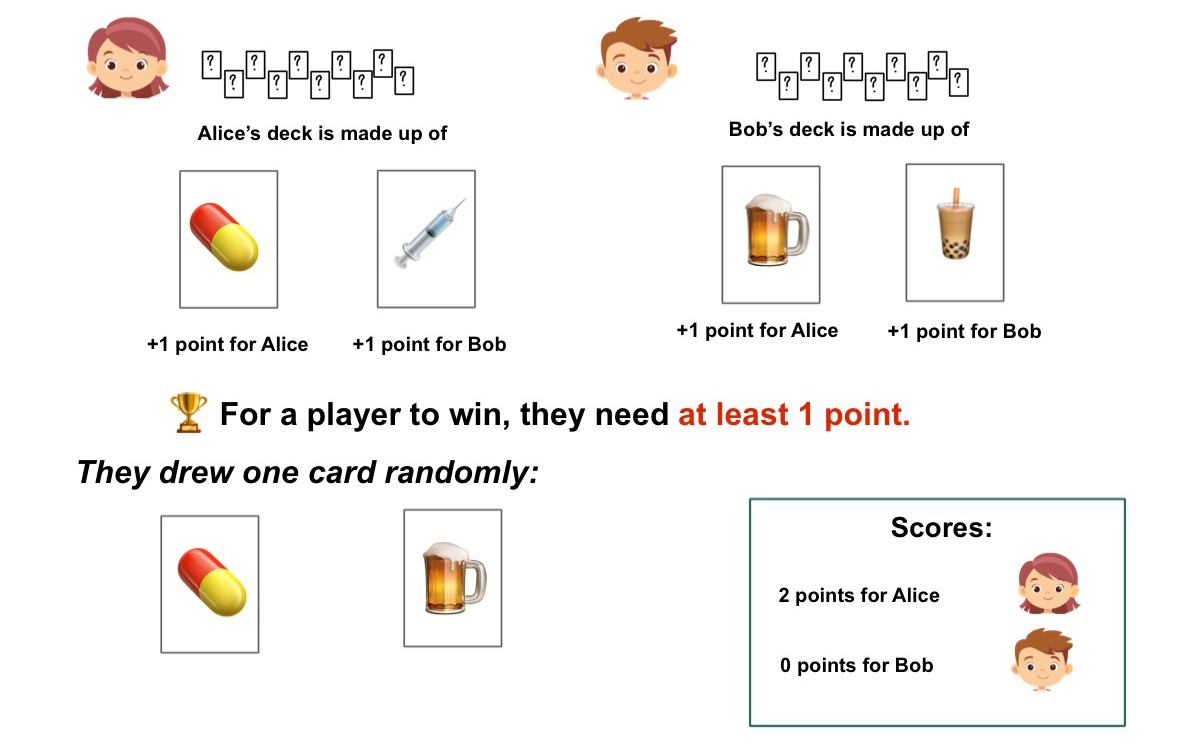
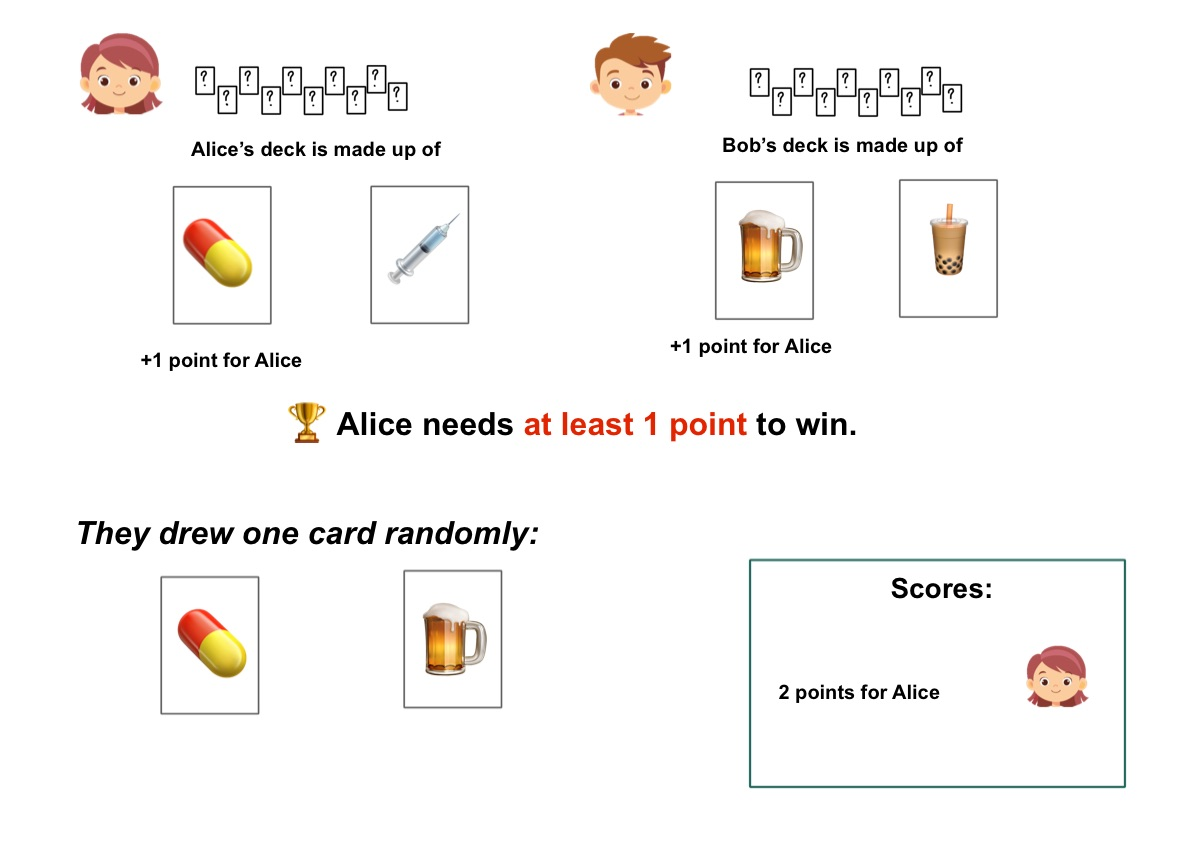
Deploying to gh-pages from @ aidayg24/causal_selection@fc078c5f442755c4d229e978290356ce2c7b787c 🚀

diff --git a/js/app.8fed67c2.js b/js/app.8fed67c2.js
@@ -1,0 +1,2 @@
+(function(){"use strict";var e={4535:function(e,t,a){var r=a(5471),o=a(4302),n=a.n(o),s=a(6093),i=function(){var e=this,t=e._self._c;return t("Experiment",{attrs:{title:"Experiment"}},[t("InstructionScreen",{attrs:{title:"Welcome"}},[t("p",[t("strong",[e._v("Welcome, and thank you for participating!")])]),t("p",[e._v(" In this experiment, you will answer questions about the outcome of an "),t("em",[e._v("Icon Card Game")]),e._v(". First, you will read instructions explaining how the game works. Then you will answer a few warm-up questions to ensure the game is clear. After that, you will proceed to the main part of the experiment. "),t("br"),t("br"),e._v(" Now let’s begin with the game instructions. ")])]),t("InstructionScreen",{attrs:{title:"Instructions"}},[t("p",[e._v(' Alice and Bob are playing the "Icon Card Game". Each player receives a '),t("strong",[e._v("deck of 10 cards")]),e._v(", composed of "),t("strong",[e._v("two types of icons")]),e._v(". Each player’s deck contains a "),t("strong",[e._v("different pair of icons")]),e._v(" (i.e., Alice’s two icon types are not the same as Bob’s)."),t("br"),e._v(" The "),t("strong",[e._v("number of each icon in each deck is determined randomly")]),e._v(", and "),t("strong",[e._v("both players know the exact composition of both decks")]),e._v(". The deck is assembled, shuffled, and placed face-down in front of them. ")]),t("img",{attrs:{src:"https://aidayg24.github.io/causal_selection/images/Ex1/Instruction/image1.jpg",alt:"cards and icons"}})]),t("InstructionScreen",{attrs:{title:"Instructions"}},[t("p",[e._v(" A point system is then assigned "),t("em",[t("strong",[e._v("randomly")])]),e._v(" to the icons."),t("br"),e._v(" In each deck, "),t("strong",[e._v("one icon gives Alice one point, and the other icon gives Bob one point.")]),t("br"),e._v(" For simplicity, only the icon that gives "),t("em",[e._v("Alice")]),e._v(" a point is shown. The other icon automatically counts for Bob. Then the "),t("strong",[e._v("winning condition for Alice is presented")]),e._v(". ")]),t("img",{attrs:{src:"conjunctive"===e.condition?"https://aidayg24.github.io/causal_selection/images/Ex1/Instruction/image2_2.jpg":"https://aidayg24.github.io/causal_selection/images/Ex1/Instruction/image2_atleast1.jpg",alt:"cards and icons"}})]),t("InstructionScreen",{attrs:{title:"Instructions"}},[t("p",[e._v(" Then both players draw one card at random from their own deck at the same time. You will then be told: ")]),t("ul",[t("li",[e._v("which cards the players drew, and")]),t("li",[e._v("each player's number of points")])]),t("p",[e._v(" Your task is to answer some questions about the game, based on the players’ deck choices and the winning rules of the game. ")]),t("p",[t("strong",[e._v("Please answer according to your own judgment.")]),e._v(" There are no right or wrong answers. ")]),t("p",[e._v(" Before we start the experiment, let’s do a quick warm-up to ensure the instructions are clear. ")]),t("img",{attrs:{src:"https://aidayg24.github.io/causal_selection/images/Ex1/Instruction/image3.jpg",alt:"cards and icons"}})]),t("Screen",[t("img",{attrs:{src:"https://aidayg24.github.io/causal_selection/images/Ex1/Instruction/image2.jpg",alt:"cards and icons"}}),t("ForcedChoiceScreen",{attrs:{question:"Is it possible that Bob draws a violin card from his deck?",options:["Yes","No","I am not sure"],feedbackTime:-1},scopedSlots:e._u([{key:"feedback",fn:function(){return["No"===e.$magpie.measurements.response?t("p",{staticClass:"feedback correct"},[e._v(" Correct!"),t("br")]):"I am not sure"===e.$magpie.measurements.response?t("p",{staticClass:"feedback unsure"},[e._v(" See Below!"),t("br")]):t("p",{staticClass:"feedback incorrect"},[e._v(" Incorrect!"),t("br")]),t("p",[e._v(" Each deck is made up of only two types of icons. Each player has a "),t("strong",[e._v("different pair of icons")]),e._v(" in their deck."),t("br"),t("span",[e._v(" Let's go to the next one.")])]),t("p"),t("button",{on:{click:function(t){return e.$magpie.nextScreen()}}},[e._v("Ok")])]},proxy:!0}])})],1),t("Screen",[t("img",{attrs:{src:"https://aidayg24.github.io/causal_selection/images/Ex1/Instruction/image2_2.jpg",alt:"cards and icons"}}),t("ForcedChoiceScreen",{attrs:{question:"Here, can Alice win if she draws a saxophone card?",options:["Yes","No","I am not sure"],feedbackTime:-1},scopedSlots:e._u([{key:"feedback",fn:function(){return["No"===e.$magpie.measurements.response?t("p",{staticClass:"feedback correct"},[e._v(" Correct!"),t("br")]):"I am not sure"===e.$magpie.measurements.response?t("p",{staticClass:"feedback unsure"},[e._v(" See Below!"),t("br")]):t("p",{staticClass:"feedback incorrect"},[e._v(" Incorrect!"),t("br")]),t("p",[e._v(" To win, Alice needs exactly two points."),t("br"),e._v(" A saxophone card gives Bob 1 point and does not give any points to Alice."),t("br"),e._v(" Even if Bob draws a guitar card, it will only give one point to Alice, and she still cannot win. "),t("br"),t("span",[e._v(" Let's go to the next one.")])]),t("p"),t("button",{on:{click:function(t){return e.$magpie.nextScreen()}}},[e._v("Ok")])]},proxy:!0}])})],1),t("Screen",[t("ForcedChoiceScreen",{attrs:{question:"Does Alice know how many guitar cards Bob has in his deck?",options:["Yes","No","I am not sure"],feedbackTime:-1},scopedSlots:e._u([{key:"feedback",fn:function(){return["Yes"===e.$magpie.measurements.response?t("p",{staticClass:"feedback correct"},[e._v(" Correct! ")]):"I am not sure"===e.$magpie.measurements.response?t("p",{staticClass:"feedback unsure"},[e._v(" See Below!"),t("br")]):t("p",{staticClass:"feedback incorrect"},[e._v(" Incorrect!"),t("br")]),t("p",[t("strong",[e._v("Both players know the exact number of each icon in every deck.")]),t("br"),t("span",[e._v(" Let's start the experiment!")])]),t("p"),t("button",{on:{click:function(t){return e.$magpie.nextScreen()}}},[e._v("Ok")])]},proxy:!0}])})],1),e._l(e.Ex1TrialsShuffled,function(a,r){return[t("Screen",{key:r},[t("Slide",[t("img",{staticClass:"card-img",attrs:{src:a.cardsImg,alt:"card image"}}),t("img",{staticClass:"play-img",attrs:{src:a.playImg,alt:"play image"}}),t("p",[t("strong",[t("em",[e._v(" Imagine you are Alice. Given the rules of the game and its outcome, which sentence would you prefer to say first? ")])])]),t("ForcedChoiceScreen",{attrs:{options:[a.op1,a.op2],randomize:!0,question:a.statement,responses:e.$magpie.measurements[a.tag]},on:{"update:responses":function(t){return e.$set(e.$magpie.measurements,a.tag,t)}}})],1)],1)]}),e._l(e.Ex2TrialsShuffled,function(a,r){return[t("Screen",{key:r},[t("Slide",[t("img",{staticClass:"play-img",attrs:{src:a.playImg,alt:"play image"}}),t("img",{staticClass:"alice-img",attrs:{src:a.aliceImg,alt:"Alice image"}}),t("p",[t("strong",[t("em",[e._v(" Given the rules of the game, the players’ knowledge about the proportion of each icon in their decks, and what Alice said: ")])])]),t("p",[t("strong",[e._v(e._s(a.q1))])]),t("MultipleChoiceInput",{attrs:{orientation:"horizontal",options:["less than 5","5","more than 5"],response:e.$magpie.measurements["ANorm_"+a.tag]},on:{"update:response":function(t){return e.$set(e.$magpie.measurements,"ANorm_"+a.tag,t)}}}),t("p",[t("strong",[e._v(e._s(a.q2))])]),t("MultipleChoiceInput",{attrs:{orientation:"horizontal",options:["less than 5","5","more than 5"],response:e.$magpie.measurements["BNorm_"+a.tag]},on:{"update:response":function(t){return e.$set(e.$magpie.measurements,"BNorm_"+a.tag,t)}}}),e.isCompareNeeded(a)?[t("p",[t("strong",[e._v(e._s(a.q3))])]),t("MultipleChoiceInput",{attrs:{orientation:"horizontal",options:["fewer","same number","more"],response:e.$magpie.measurements["compare_"+a.tag]},on:{"update:response":function(t){return e.$set(e.$magpie.measurements,"compare_"+a.tag,t)}}})]:e._e(),t("button",{attrs:{disabled:void 0===e.$magpie.measurements["ANorm_"+a.tag]||void 0===e.$magpie.measurements["BNorm_"+a.tag]||e.isCompareNeeded(a)&&!e.$magpie.measurements["compare_"+a.tag]},on:{click:function(t){return e.$magpie.saveAndNextScreen()}}},[e._v("Next")])],2)],1)]}),t("PostTestScreen"),t("SubmitResultsScreen")],2)},c=[],u=a(2543),l=a.n(u);const m="https://aidayg24.github.io/causal_selection/images/Ex1/Main/",p=[{cardsImg:`${m}matrix2Cards.jpg`,playImg:`${m}matrix2Play.jpg`,op1:"I drew the red pill card.",op2:"Bob drew the eat card.",statement:"I won because ",tag:"matrix2"},{cardsImg:`${m}superhero2Cards.jpg`,playImg:`${m}superhero2Play.jpg`,op1:"I drew the Spider-Man card.",op2:"Bob drew the Joker card.",statement:"I lost because ",tag:"superhero2"}];var d=p;const g="https://aidayg24.github.io/causal_selection/images/Ex1/Main/",h=[{cardsImg:`${g}instrument1Cards.jpg`,playImg:`${g}instrument1Play.jpg`,op1:"I drew the violin card.",op2:"Bob drew the guitar card.",statement:"I won because ",tag:"instrument1"},{cardsImg:`${g}superpower1Cards.jpg`,playImg:`${g}superpower1Play.jpg`,op1:"I drew the Spider-Man card.",op2:"Bob drew the Joker card.",statement:"I lost because ",tag:"superpower1"}];var f=h;const v="https://aidayg24.github.io/causal_selection/images/Ex2/main/",b=[{playImg:`${v}instrumentPlay.jpg`,aliceImg:`${v}instrumentAlice.jpg`,q1:"1. How many violin cards does Alice have?",q2:"2. How many guitar cards does Bob have?",q3:"3. Does Alice have more, fewer, or the same number of violin cards as Bob has guitar cards?",tag:"instrument"},{playImg:`${v}superpowerPlay.jpg`,aliceImg:`${v}superpowerAlice.jpg`,q1:"1. How many superpower cards does Alice have?",q2:"2. How many beer cards does Bob have?",q3:"3. Does Alice have more, fewer, or the same number of superpower cards as Bob has beer cards?",tag:"superpower"},{playImg:`${v}studyPlay.jpg`,aliceImg:`${v}studyAlice.jpg`,q1:"1. How many history cards does Alice have?",q2:"2. How many biology cards does Bob have?",q3:"3. Does Alice have more, fewer, or the same number of history cards as Bob has biology cards?",tag:"study"},{playImg:`${v}gamePlay.jpg`,aliceImg:`${v}gameAlice.jpg`,q1:"1. How many party cards does Alice have?",q2:"2. How many study cards does Bob have?",q3:"3. Does Alice have more, fewer, or the same number of party cards as Bob has study cards?",tag:"game"}];var y=b;const w="https://aidayg24.github.io/causal_selection/images/Ex2/main/",_=[{playImg:`${w}drugPlay.jpg`,aliceImg:`${w}drugAlice.jpg`,q1:"1. How many pill cards does Alice have?",q2:"2. How many beer cards does Bob have?",q3:"3. Does Alice have more, fewer, or the same number of pill cards as Bob has beer cards?",tag:"drug"},{playImg:`${w}matrixPlay.jpg`,aliceImg:`${w}matrixAlice.jpg`,q1:"1. How many red pill cards does Alice have?",q2:"2. How many eat cards does Bob have?",q3:"3. Does Alice have more, fewer, or the same number of red pill cards as Bob has eat cards?",tag:"matrix"},{playImg:`${w}foodPlay.jpg`,aliceImg:`${w}foodAlice.jpg`,q1:"1. How many salad cards does Alice have?",q2:"2. How many popcorn cards does Bob have?",q3:"3. Does Alice have more, fewer, or the same number of salad cards as Bob has popcorn cards?",tag:"food"},{playImg:`${w}superheroPlay.jpg`,aliceImg:`${w}superheroAlice.jpg`,q1:"1. How many spiderman cards does Alice have?",q2:"2. How many joker cards does Bob have?",q3:"3. Does Alice have more, fewer, or the same number of spiderman cards as Bob has joker cards?",tag:"superhero"}];var k=_,I={name:"App",data(){const e=Math.random()<.5?"conjunctive":"disjunctive";return{condition:e,Ex1TrialsShuffled:l().shuffle("conjunctive"===e?d:f),Ex2TrialsShuffled:l().shuffle("conjunctive"===e?y:k)}},methods:{isCompareNeeded(e){const t=this.$magpie.measurements["ANorm_"+e.tag],a=this.$magpie.measurements["BNorm_"+e.tag];return!(!t||!a)&&("less than 5"===t&&"less than 5"===a||"more than 5"===t&&"more than 5"===a)},finalizeMatrix(e){this.$magpie.measurements[`${e.tag}_answers`];this.$magpie.measurements[`${e.tag}_questions_json`]=JSON.stringify([e.q1,e.q2,e.q3,e.q4]),this.$magpie.saveAndNextScreen()}}},$=I,x=a(1656),A=(0,x.A)($,i,c,!1,null,"68ec5f0b",null),j=A.exports,q={experimentId:"30",serverUrl:"https://magpie-cogsciprag.fly.dev",socketUrl:"wss://magpie-cogsciprag.fly.dev/socket",completionUrl:"https://...",contactEmail:"aidarostamiyg24@gmail.com",mode:"directLink",language:"en"};r["default"].config.productionTip=!1,r["default"].use(n(),{prefix:"Canvas"}),r["default"].use(s.Ay,q),new r["default"]({render:e=>e(j)}).$mount("#app")}},t={};function a(r){var o=t[r];if(void 0!==o)return o.exports;var n=t[r]={id:r,loaded:!1,exports:{}};return e[r].call(n.exports,n,n.exports,a),n.loaded=!0,n.exports}a.m=e,function(){var e=[];a.O=function(t,r,o,n){if(!r){var s=1/0;for(l=0;l<e.length;l++){r=e[l][0],o=e[l][1],n=e[l][2];for(var i=!0,c=0;c<r.length;c++)(!1&n||s>=n)&&Object.keys(a.O).every(function(e){return a.O[e](r[c])})?r.splice(c--,1):(i=!1,n<s&&(s=n));if(i){e.splice(l--,1);var u=o();void 0!==u&&(t=u)}}return t}n=n||0;for(var l=e.length;l>0&&e[l-1][2]>n;l--)e[l]=e[l-1];e[l]=[r,o,n]}}(),function(){a.n=function(e){var t=e&&e.__esModule?function(){return e["default"]}:function(){return e};return a.d(t,{a:t}),t}}(),function(){a.d=function(e,t){for(var r in t)a.o(t,r)&&!a.o(e,r)&&Object.defineProperty(e,r,{enumerable:!0,get:t[r]})}}(),function(){a.f={},a.e=function(e){return Promise.all(Object.keys(a.f).reduce(function(t,r){return a.f[r](e,t),t},[]))}}(),function(){a.u=function(e){return"js/"+e+".0d37b189.js"}}(),function(){a.miniCssF=function(e){}}(),function(){a.g=function(){if("object"===typeof globalThis)return globalThis;try{return this||new Function("return this")()}catch(e){if("object"===typeof window)return window}}()}(),function(){a.o=function(e,t){return Object.prototype.hasOwnProperty.call(e,t)}}(),function(){var e={},t="thesis-experiment:";a.l=function(r,o,n,s){if(e[r])e[r].push(o);else{var i,c;if(void 0!==n)for(var u=document.getElementsByTagName("script"),l=0;l<u.length;l++){var m=u[l];if(m.getAttribute("src")==r||m.getAttribute("data-webpack")==t+n){i=m;break}}i||(c=!0,i=document.createElement("script"),i.charset="utf-8",i.timeout=120,a.nc&&i.setAttribute("nonce",a.nc),i.setAttribute("data-webpack",t+n),i.src=r),e[r]=[o];var p=function(t,a){i.onerror=i.onload=null,clearTimeout(d);var o=e[r];if(delete e[r],i.parentNode&&i.parentNode.removeChild(i),o&&o.forEach(function(e){return e(a)}),t)return t(a)},d=setTimeout(p.bind(null,void 0,{type:"timeout",target:i}),12e4);i.onerror=p.bind(null,i.onerror),i.onload=p.bind(null,i.onload),c&&document.head.appendChild(i)}}}(),function(){a.r=function(e){"undefined"!==typeof Symbol&&Symbol.toStringTag&&Object.defineProperty(e,Symbol.toStringTag,{value:"Module"}),Object.defineProperty(e,"__esModule",{value:!0})}}(),function(){a.nmd=function(e){return e.paths=[],e.children||(e.children=[]),e}}(),function(){a.p="/causal_selection/"}(),function(){var e={524:0};a.f.j=function(t,r){var o=a.o(e,t)?e[t]:void 0;if(0!==o)if(o)r.push(o[2]);else{var n=new Promise(function(a,r){o=e[t]=[a,r]});r.push(o[2]=n);var s=a.p+a.u(t),i=new Error,c=function(r){if(a.o(e,t)&&(o=e[t],0!==o&&(e[t]=void 0),o)){var n=r&&("load"===r.type?"missing":r.type),s=r&&r.target&&r.target.src;i.message="Loading chunk "+t+" failed.\n("+n+": "+s+")",i.name="ChunkLoadError",i.type=n,i.request=s,o[1](i)}};a.l(s,c,"chunk-"+t,t)}},a.O.j=function(t){return 0===e[t]};var t=function(t,r){var o,n,s=r[0],i=r[1],c=r[2],u=0;if(s.some(function(t){return 0!==e[t]})){for(o in i)a.o(i,o)&&(a.m[o]=i[o]);if(c)var l=c(a)}for(t&&t(r);u<s.length;u++)n=s[u],a.o(e,n)&&e[n]&&e[n][0](),e[n]=0;return a.O(l)},r=self["webpackChunkthesis_experiment"]=self["webpackChunkthesis_experiment"]||[];r.forEach(t.bind(null,0)),r.push=t.bind(null,r.push.bind(r))}();var r=a.O(void 0,[504],function(){return a(4535)});r=a.O(r)})();
+//# sourceMappingURL=app.8fed67c2.js.map

diff --git a/css/app.a9f301ec.css b/css/app.a9f301ec.css
@@ -1,0 +1,1 @@
+.experiment{box-sizing:border-box;margin:3% auto;width:900px;min-height:600px;border-radius:10px;border:1px solid #ababab;padding:20px;-webkit-font-smoothing:antialiased;-moz-osx-font-smoothing:grayscale;text-align:center;position:relative;display:flex;flex-direction:column;color:rgba(0,0,0,.87);font-size:17px;line-height:27px;font-family:Lato,Noto Sans,sans-serif}.experiment.wide{width:100%;margin:0;min-height:98vh;border:none}.header{text-align:left;display:flex;flex-direction:row;flex-grow:0}.header .col{flex-shrink:0;flex-grow:1}.header .col:last-child{display:flex;flex-direction:row-reverse}.experiment.wide .header .col:last-child{flex-direction:row}.header .k-progress-outer{padding-right:0}h1,h2,h3,h4{color:rgba(0,0,0,.87);font-family:Playfair Display,"Noto Serif",serif;text-align:center}h1{font-size:34px}button{background-color:#5187ba;border:none;border-radius:2px;color:#fff;display:block;font-family:Lato,Noto Sans,sans-serif;font-size:12px;line-height:20px;font-weight:700;letter-spacing:.9px;margin:40px auto 20px auto;outline:none;padding:5px 10px;text-transform:uppercase}button:focus,button:hover{background-color:#324d93}img,video{max-width:100%;height:auto;max-height:400px;width:auto}.debug-statement[data-v-5a63c536]{border:2px solid #aa2935;border-radius:4px;color:#aa2935;text-align:left;padding:15px;position:fixed;bottom:10px;width:830px}.debug-statement [data-v-5a63c536],.debug-statement[data-v-5a63c536]{color:#aa2935}.screen[data-v-2db71145]{flex-grow:1;position:relative}textarea[data-v-20ec9a19]{border:2px solid #5187ba;border-radius:10px;display:block;font-size:16px;margin:0 auto;outline:none;padding:10px 20px}.option[data-v-0428af94]{background-color:#5187ba;border:none;border-radius:2px;color:#fff;cursor:pointer;display:inline-block;font-family:Lato,Noto Sans,sans-serif;font-size:12px;line-height:20px;font-weight:700;letter-spacing:.9px;margin:0 5px 20px 5px;outline:none;padding:5px 10px;text-transform:uppercase}.option[data-v-0428af94]:hover{background-color:#324d93}.options[data-v-36baf217]{display:flex;justify-content:center}.option img[data-v-36baf217]{margin:20px;height:100px;width:auto;cursor:pointer}.options[data-v-50f61df4]{display:flex;justify-content:center;gap:15px;margin:20px 0}.options .left[data-v-50f61df4],.options .right[data-v-50f61df4]{flex-grow:0;padding:0 15px}.options label[data-v-50f61df4]{flex-grow:0}.vue-slider-disabled{opacity:.5;cursor:not-allowed}.vue-slider-rail{background-color:#ccc;border-radius:15px}.vue-slider-process{background-color:#3498db;border-radius:15px}.vue-slider-mark{z-index:4}.vue-slider-mark:first-child .vue-slider-mark-step,.vue-slider-mark:last-child .vue-slider-mark-step{display:none}.vue-slider-mark-step{width:100%;height:100%;border-radius:50%;background-color:rgba(0,0,0,.16)}.vue-slider-mark-label{font-size:14px;white-space:nowrap}.vue-slider-dot-handle{cursor:pointer;width:100%;height:100%;border-radius:50%;background-color:#fff;box-sizing:border-box;box-shadow:.5px .5px 2px 1px rgba(0,0,0,.32)}.vue-slider-dot-handle-focus{box-shadow:0 0 1px 2px rgba(52,152,219,.36)}.vue-slider-dot-handle-disabled{cursor:not-allowed;background-color:#ccc}.vue-slider-dot-tooltip-inner{font-size:14px;white-space:nowrap;padding:2px 5px;min-width:20px;text-align:center;color:#fff;border-radius:5px;border-color:#3498db;background-color:#3498db;box-sizing:content-box}.vue-slider-dot-tooltip-inner:after{content:"";position:absolute}.vue-slider-dot-tooltip-inner-top:after{top:100%;left:50%;transform:translate(-50%);height:0;width:0;border-color:transparent;border-style:solid;border-width:5px;border-top-color:inherit}.vue-slider-dot-tooltip-inner-bottom:after{bottom:100%;left:50%;transform:translate(-50%);height:0;width:0;border-color:transparent;border-style:solid;border-width:5px;border-bottom-color:inherit}.vue-slider-dot-tooltip-inner-left:after{left:100%;top:50%;transform:translateY(-50%);height:0;width:0;border-color:transparent;border-style:solid;border-width:5px;border-left-color:inherit}.vue-slider-dot-tooltip-inner-right:after{right:100%;top:50%;transform:translateY(-50%);height:0;width:0;border-color:transparent;border-style:solid;border-width:5px;border-right-color:inherit}.vue-slider-dot-tooltip-wrapper{opacity:0;transition:all .3s}.vue-slider-dot-tooltip-wrapper-show{opacity:1}.slider-element[data-v-6c73a9d4]{display:flex;margin:20px 0}.slider-element .left[data-v-6c73a9d4],.slider-element .right[data-v-6c73a9d4]{flex-grow:0;padding:0 20px}.slider[data-v-6c73a9d4]{flex-grow:1}.textarea[data-v-7a50d03b]{position:relative;max-width:95%}textarea[data-v-7a50d03b]{border:2px solid #5187ba;border-radius:10px;display:block;font-size:16px;margin:0 auto;outline:none;padding:10px 20px;height:100%;width:100%}.options label [data-v-f03be8e0],.options label[data-v-f03be8e0]{cursor:pointer}.multiple-choice.vertical[data-v-f03be8e0]{text-align:left;width:500px;margin:0 auto}.multiple-choice.vertical label[data-v-f03be8e0]{display:block}.multiple-choice.horizontal label[data-v-f03be8e0]{display:inline-block;margin:0 10px}.option[data-v-f03be8e0]:hover{background-color:#324d93}.matrix-choice{text-align:left;width:100%}.matrix-choice .row{display:flex;flex-direction:row;align-items:center}.matrix-choice .row>:first-child{width:50%;text-align:right}.matrix-choice .row label{width:50px;display:inline-block;font-size:13px;margin:0 10px;text-align:center}.slider-element[data-v-5fcc2cd1]{display:flex;margin:20px 0}.slider-element .left[data-v-5fcc2cd1],.slider-element .right[data-v-5fcc2cd1]{flex-grow:0;padding:0 20px}.slider[data-v-5fcc2cd1]{flex-grow:1}.rankorder-input[data-v-cde501dc]{width:500px;text-align:left;margin:0 auto}.rankorder-input .item[data-v-cde501dc]{cursor:move;margin-bottom:10px}.pill[data-v-cde501dc]{background:#add8e6;border-radius:10px;display:inline-block;padding:0 3px;margin-right:10px}.option[data-v-e124492a]{background-color:#5187ba;border:none;border-radius:2px;color:#fff;cursor:pointer;display:inline-block;font-family:Lato,Noto Sans,sans-serif;font-size:30px;line-height:40px;font-weight:700;letter-spacing:.9px;margin:0 70px 70px 70px;outline:none;padding:5px 10px;text-transform:uppercase}.option[data-v-e124492a]:hover{background-color:#324d93}.text[data-v-752e72bd]{margin:30px auto}.text [data-v-752e72bd]{margin-right:5px}.text.underline-sentence [data-v-752e72bd]{margin-right:0;padding-right:5px;border-bottom:1px solid #000}.text.underline-words [data-v-752e72bd]{border-bottom:1px solid #000}.text[data-v-752e72bd] :not(.current){display:none}.text.show-all[data-v-752e72bd] :not(.current){color:transparent;display:inline}.text .current[data-v-752e72bd]{color:#000;display:inline}.chat{width:450px}.chat-box{overflow:auto;height:400px}.userEvent{width:45%;clear:both;text-align:center;margin:5px auto}.userEvent.me{color:#70ba517a!important}.message{width:55%;float:left;text-align:left;background:#5187ba7a;border-radius:4px;padding:4px;margin:5px 0}.message.me{float:right;background:#70ba517a!important}.chat-input{display:flex}.chat-input textarea{flex-grow:1;height:32px}.chat-input button{margin:0}td[data-v-1a412b3c]{max-width:150px;overflow:hidden;text-overflow:ellipsis}.debugResults[data-v-1a412b3c]{overflow-x:scroll}.instructions[data-v-286444fe]{width:600px;margin:0 auto;text-align:justify}.point[data-v-8ef3bc36]{position:absolute}.point.check[data-v-8ef3bc36]{position:fixed;left:50vw;top:40vh}.point[data-v-249dc640]{position:absolute}.point.check[data-v-249dc640]{position:fixed}.options[data-v-22cf83e4]{display:flex;flex-direction:row}.options .space[data-v-22cf83e4]{flex:1}.options .option1[data-v-22cf83e4],.options .option2[data-v-22cf83e4]{flex:0}.stimulus[data-v-22cf83e4]{bottom:200px;position:absolute;width:100%}button[data-v-22cf83e4]{bottom:20px;left:50%;position:absolute}.qud[data-v-22cf83e4]{position:relative;top:150px}.text[data-v-18f4a5b4]{margin:30px auto}.text [data-v-18f4a5b4]{margin-right:5px}.text.underline-sentence [data-v-18f4a5b4]{margin-right:0;padding-right:5px;border-bottom:1px solid #000}.text.underline-words [data-v-18f4a5b4]{border-bottom:1px solid #000}.text[data-v-18f4a5b4] :not(.current){display:none}.text.show-all[data-v-18f4a5b4] :not(.current){color:transparent;display:inline}.text .current[data-v-18f4a5b4]{color:#000;display:inline}.nocursor,.nocursor *{cursor:none!important}.noselect,.noselect *{user-select:none;-moz-user-select:none;-ms-user-select:none;-webkit-user-select:none}button[data-v-68ec5f0b]:disabled{background-color:#ccc;color:#666;cursor:not-allowed;opacity:.6}.feedback[data-v-68ec5f0b]{font-weight:700;text-align:center;margin:1em 0}.feedback.correct[data-v-68ec5f0b]{color:green;font-size:2em}.feedback.unsure[data-v-68ec5f0b]{color:#e8cc0e;font-size:2em}.feedback.incorrect[data-v-68ec5f0b]{color:red;font-size:2em}.play-img[data-v-68ec5f0b]{width:1800px;-o-object-fit:contain;object-fit:contain}.alice-img[data-v-68ec5f0b],.card-img[data-v-68ec5f0b]{width:700px;-o-object-fit:contain;object-fit:contain}

diff --git a/index.html b/index.html
@@ -1,1 +1,1 @@
-<!doctype html><html lang=""><head><meta charset="utf-8"><meta http-equiv="X-UA-Compatible" content="IE=edge"><meta name="viewport" content="width=device-width,initial-scale=1"><title>Vue App</title><script defer="defer" src="/causal_selection/js/chunk-vendors.288fe78c.js"></script><script defer="defer" src="/causal_selection/js/app.0ad11d60.js"></script><link href="/causal_selection/css/app.19a398b7.css" rel="stylesheet"></head><body><div id="app"></div></body></html>
+<!doctype html><html lang=""><head><meta charset="utf-8"><meta http-equiv="X-UA-Compatible" content="IE=edge"><meta name="viewport" content="width=device-width,initial-scale=1"><title>Vue App</title><script defer="defer" src="/causal_selection/js/chunk-vendors.288fe78c.js"></script><script defer="defer" src="/causal_selection/js/app.8fed67c2.js"></script><link href="/causal_selection/css/app.a9f301ec.css" rel="stylesheet"></head><body><div id="app"></div></body></html>
